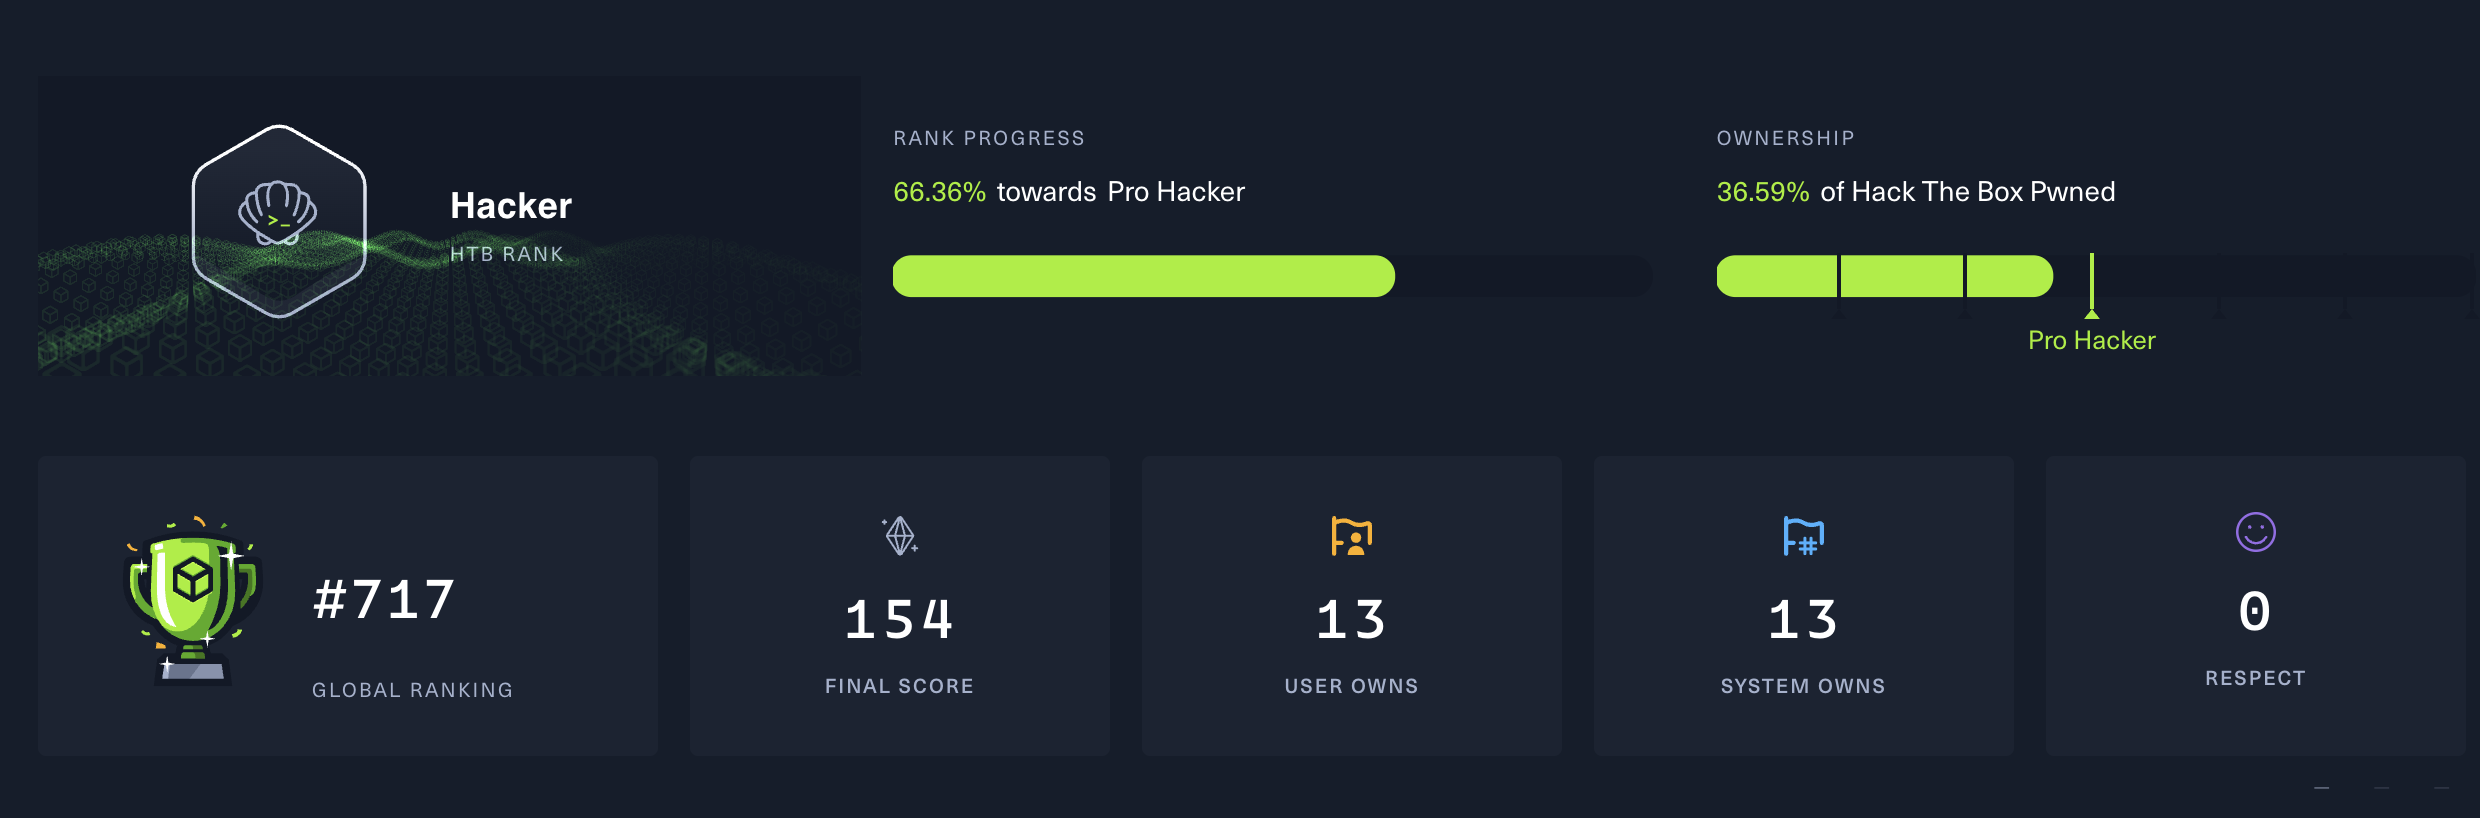
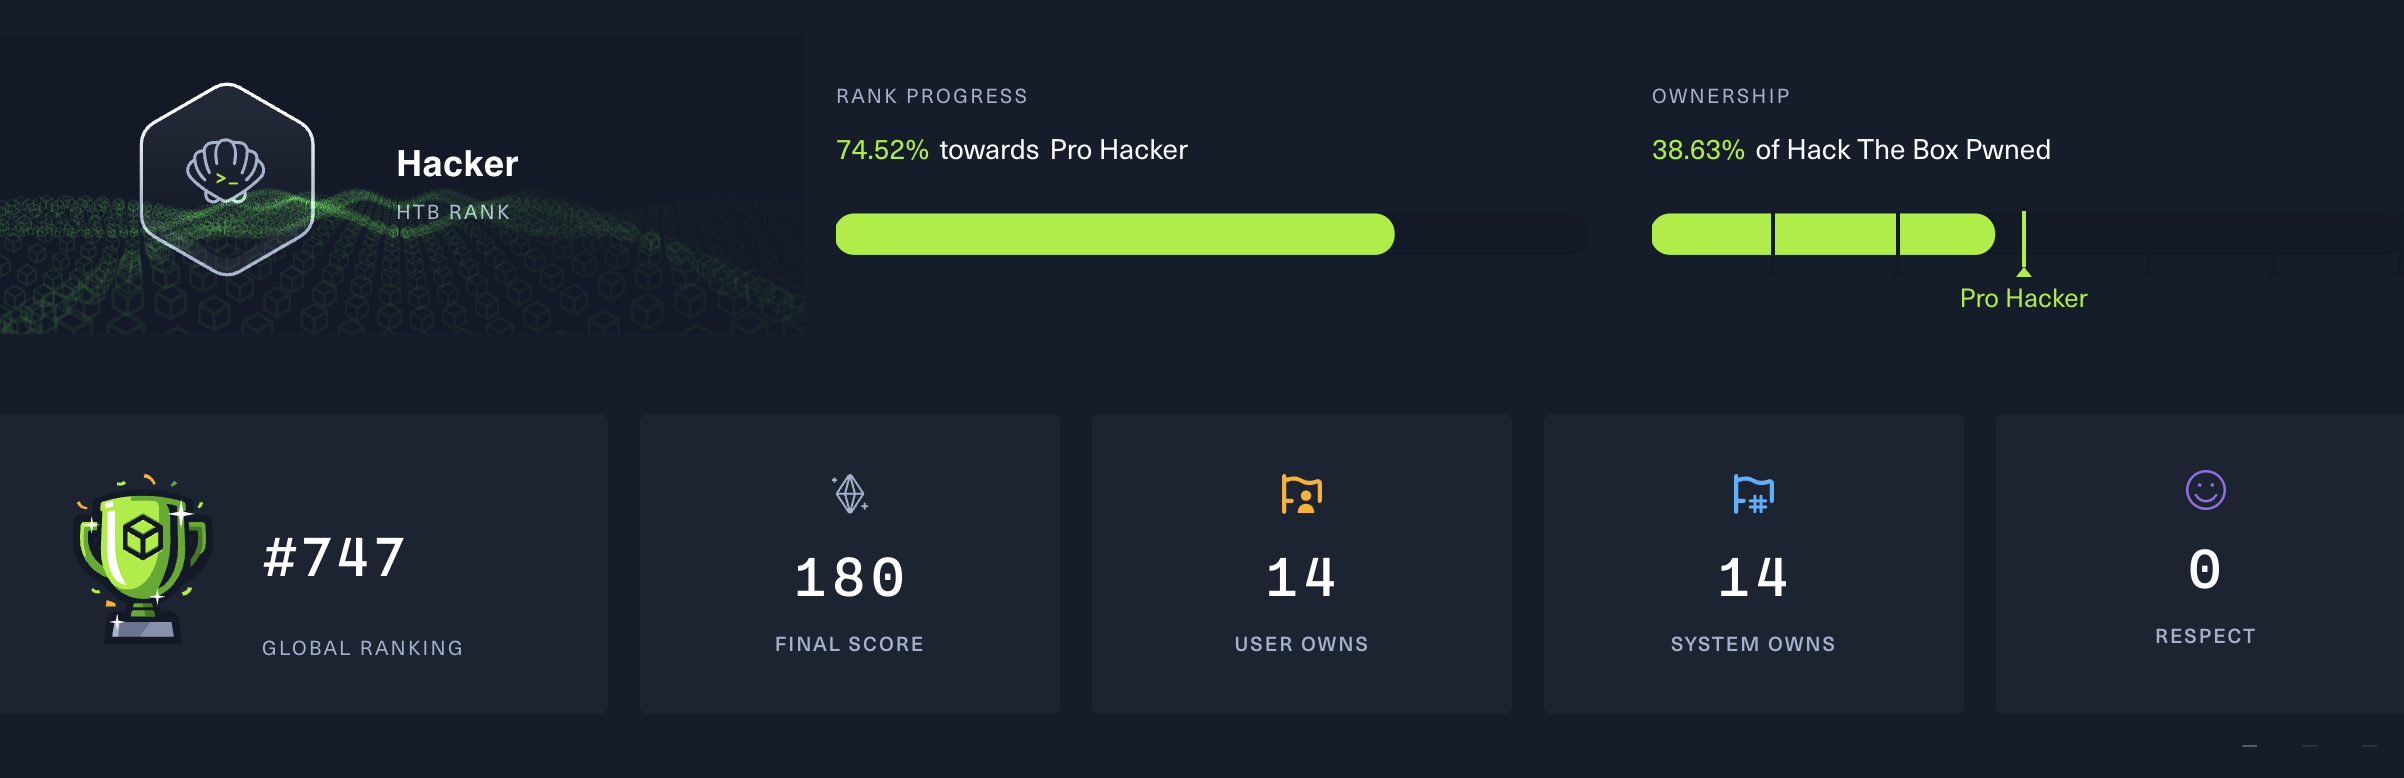
update htb info

diff --git a/index.html b/index.html
@@ -330,6 +330,14 @@
                                 </div>
                             </a>   
                         </div>
+                        <div class="col-md-3">
+                            <a href="https://www.hackthebox.com/achievement/machine/2370070/661" target="_blank" style="text-decoration: none; color: inherit;">
+                                <div class="certificate-item">
+                                    <img src="assets/htb/medium/puppy.png" class="htb-img mb-3" alt="Certificate 1">
+                                    <h6 class="certificate-title text-warning">Puppy</h6>
+                                </div>
+                            </a>   
+                        </div>
                     </div>
                 </div>
 
